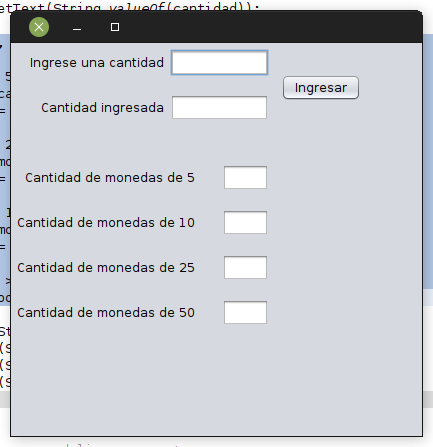
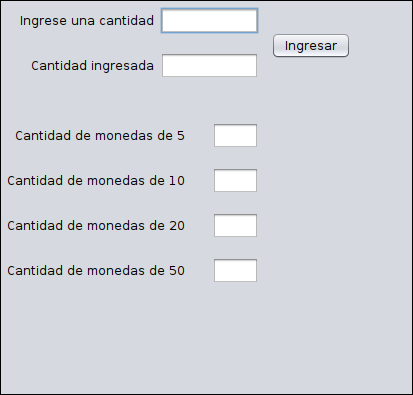
Se cambió la moneda de 25 por la de 20

Changed region(s): [[0.0, 0.0, 1.0, 1.0], [0.4939, 0.3038, 0.6392, 0.7291]]

diff --git a/src/main/java/com/jeff/monedas/Principal.java b/src/main/java/com/jeff/monedas/Principal.java
@@ -35,7 +35,7 @@ public class Principal extends javax.swing.JFrame {
         jLabel4 = new javax.swing.JLabel();
         jLabel5 = new javax.swing.JLabel();
         txt5 = new javax.swing.JTextField();
-        txt25 = new javax.swing.JTextField();
+        txt20 = new javax.swing.JTextField();
         txt10 = new javax.swing.JTextField();
         txt50 = new javax.swing.JTextField();
         jLabel6 = new javax.swing.JLabel();
@@ -56,13 +56,13 @@ public class Principal extends javax.swing.JFrame {
 
         jLabel3.setText("Cantidad de monedas de 10");
 
-        jLabel4.setText("Cantidad de monedas de 25");
+        jLabel4.setText("Cantidad de monedas de 20");
 
         jLabel5.setText("Cantidad de monedas de 50");
 
         txt5.setEditable(false);
 
-        txt25.setEditable(false);
+        txt20.setEditable(false);
 
         txt10.setEditable(false);
 
@@ -96,7 +96,7 @@ public class Principal extends javax.swing.JFrame {
                                 .addGroup(layout.createParallelGroup(javax.swing.GroupLayout.Alignment.LEADING)
                                     .addComponent(txt50, javax.swing.GroupLayout.PREFERRED_SIZE, 47, javax.swing.GroupLayout.PREFERRED_SIZE)
                                     .addComponent(txt5, javax.swing.GroupLayout.PREFERRED_SIZE, 47, javax.swing.GroupLayout.PREFERRED_SIZE)
-                                    .addComponent(txt25, javax.swing.GroupLayout.PREFERRED_SIZE, 47, javax.swing.GroupLayout.PREFERRED_SIZE)
+                                    .addComponent(txt20, javax.swing.GroupLayout.PREFERRED_SIZE, 47, javax.swing.GroupLayout.PREFERRED_SIZE)
                                     .addComponent(txt10, javax.swing.GroupLayout.PREFERRED_SIZE, 47, javax.swing.GroupLayout.PREFERRED_SIZE)))
                             .addGroup(layout.createSequentialGroup()
                                 .addComponent(jLabel6)
@@ -133,7 +133,7 @@ public class Principal extends javax.swing.JFrame {
                 .addGap(18, 18, 18)
                 .addGroup(layout.createParallelGroup(javax.swing.GroupLayout.Alignment.BASELINE)
                     .addComponent(jLabel4)
-                    .addComponent(txt25, javax.swing.GroupLayout.PREFERRED_SIZE, javax.swing.GroupLayout.DEFAULT_SIZE, javax.swing.GroupLayout.PREFERRED_SIZE))
+                    .addComponent(txt20, javax.swing.GroupLayout.PREFERRED_SIZE, javax.swing.GroupLayout.DEFAULT_SIZE, javax.swing.GroupLayout.PREFERRED_SIZE))
                 .addGap(18, 18, 18)
                 .addGroup(layout.createParallelGroup(javax.swing.GroupLayout.Alignment.BASELINE)
                     .addComponent(jLabel5)
@@ -148,26 +148,26 @@ public class Principal extends javax.swing.JFrame {
         int cantidad = Integer.parseInt(txtInput.getText());
         txtCantidad.setText(String.valueOf(cantidad));
         
-        int cont5 = 0, cont10 = 0, cont25 = 0, cont50 = 0;
+        int cont5 = 0, cont10 = 0, cont20 = 0, cont50 = 0;
         
         if(cantidad / 50 > 0)
             cont50 = cantidad/50;
         int modulo50 = cantidad%50;
         
         if(modulo50 / 25 > 0)
-            cont25 = modulo50/25;
-        int modulo25 = modulo50%25;
+            cont20 = modulo50/20;
+        int modulo20 = modulo50%20;
         
-        if(modulo25 / 10 > 0)
-            cont10 = modulo25/10;
-        int modulo10 = modulo25%10;
+        if(modulo20 / 10 > 0)
+            cont10 = modulo20/10;
+        int modulo10 = modulo20%10;
         
         if(modulo10/5 > 0)
             cont5 = modulo10/5;
         
         txt5.setText(String.valueOf(cont5));
         txt10.setText(String.valueOf(cont10));
-        txt25.setText(String.valueOf(cont25));
+        txt20.setText(String.valueOf(cont20));
         txt50.setText(String.valueOf(cont50));
     }//GEN-LAST:event_jButton1ActionPerformed
 
@@ -215,7 +215,7 @@ public class Principal extends javax.swing.JFrame {
     private javax.swing.JLabel jLabel5;
     private javax.swing.JLabel jLabel6;
     private javax.swing.JTextField txt10;
-    private javax.swing.JTextField txt25;
+    private javax.swing.JTextField txt20;
     private javax.swing.JTextField txt5;
     private javax.swing.JTextField txt50;
     private javax.swing.JTextField txtCantidad;

diff --git a/README.md b/README.md
@@ -6,14 +6,14 @@ Las denominaciones de las monedas son:
 
 * 5
 * 10
-* 25
+* 20
 * 50
 
 ## Consideraciones
 
 * Lenguaje de programación Java
 * OpenJDK 11.0
-* Netbeans 12.0
+* Apache Netbeans 12.0
 * Ubuntu MATE 20.04
 
 ## Capturas
